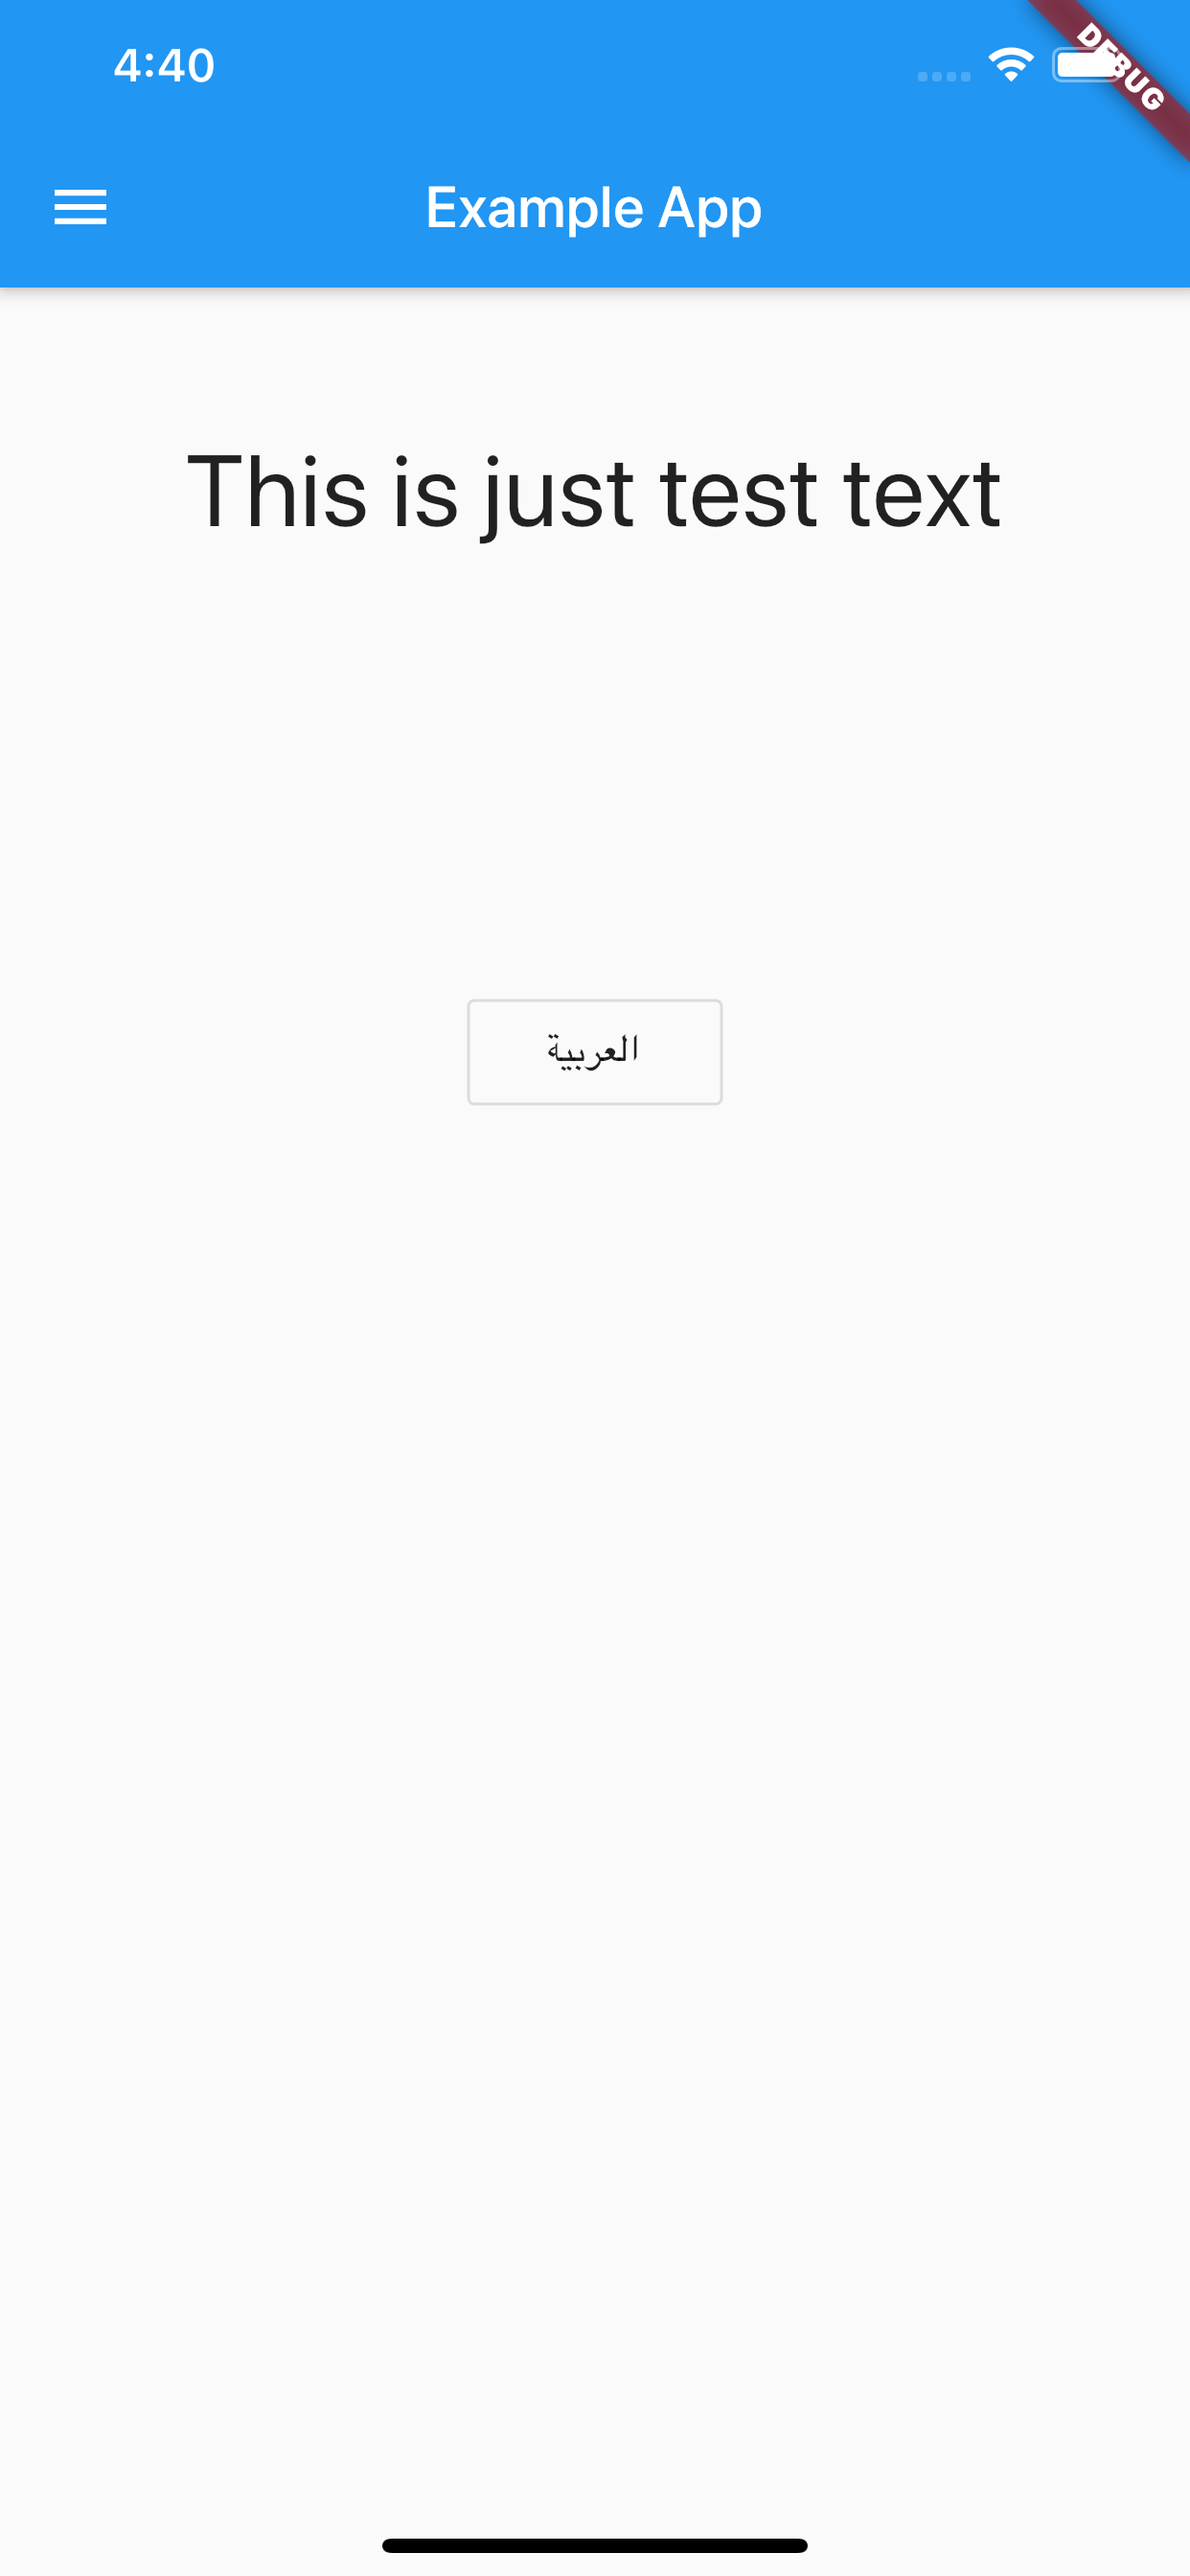
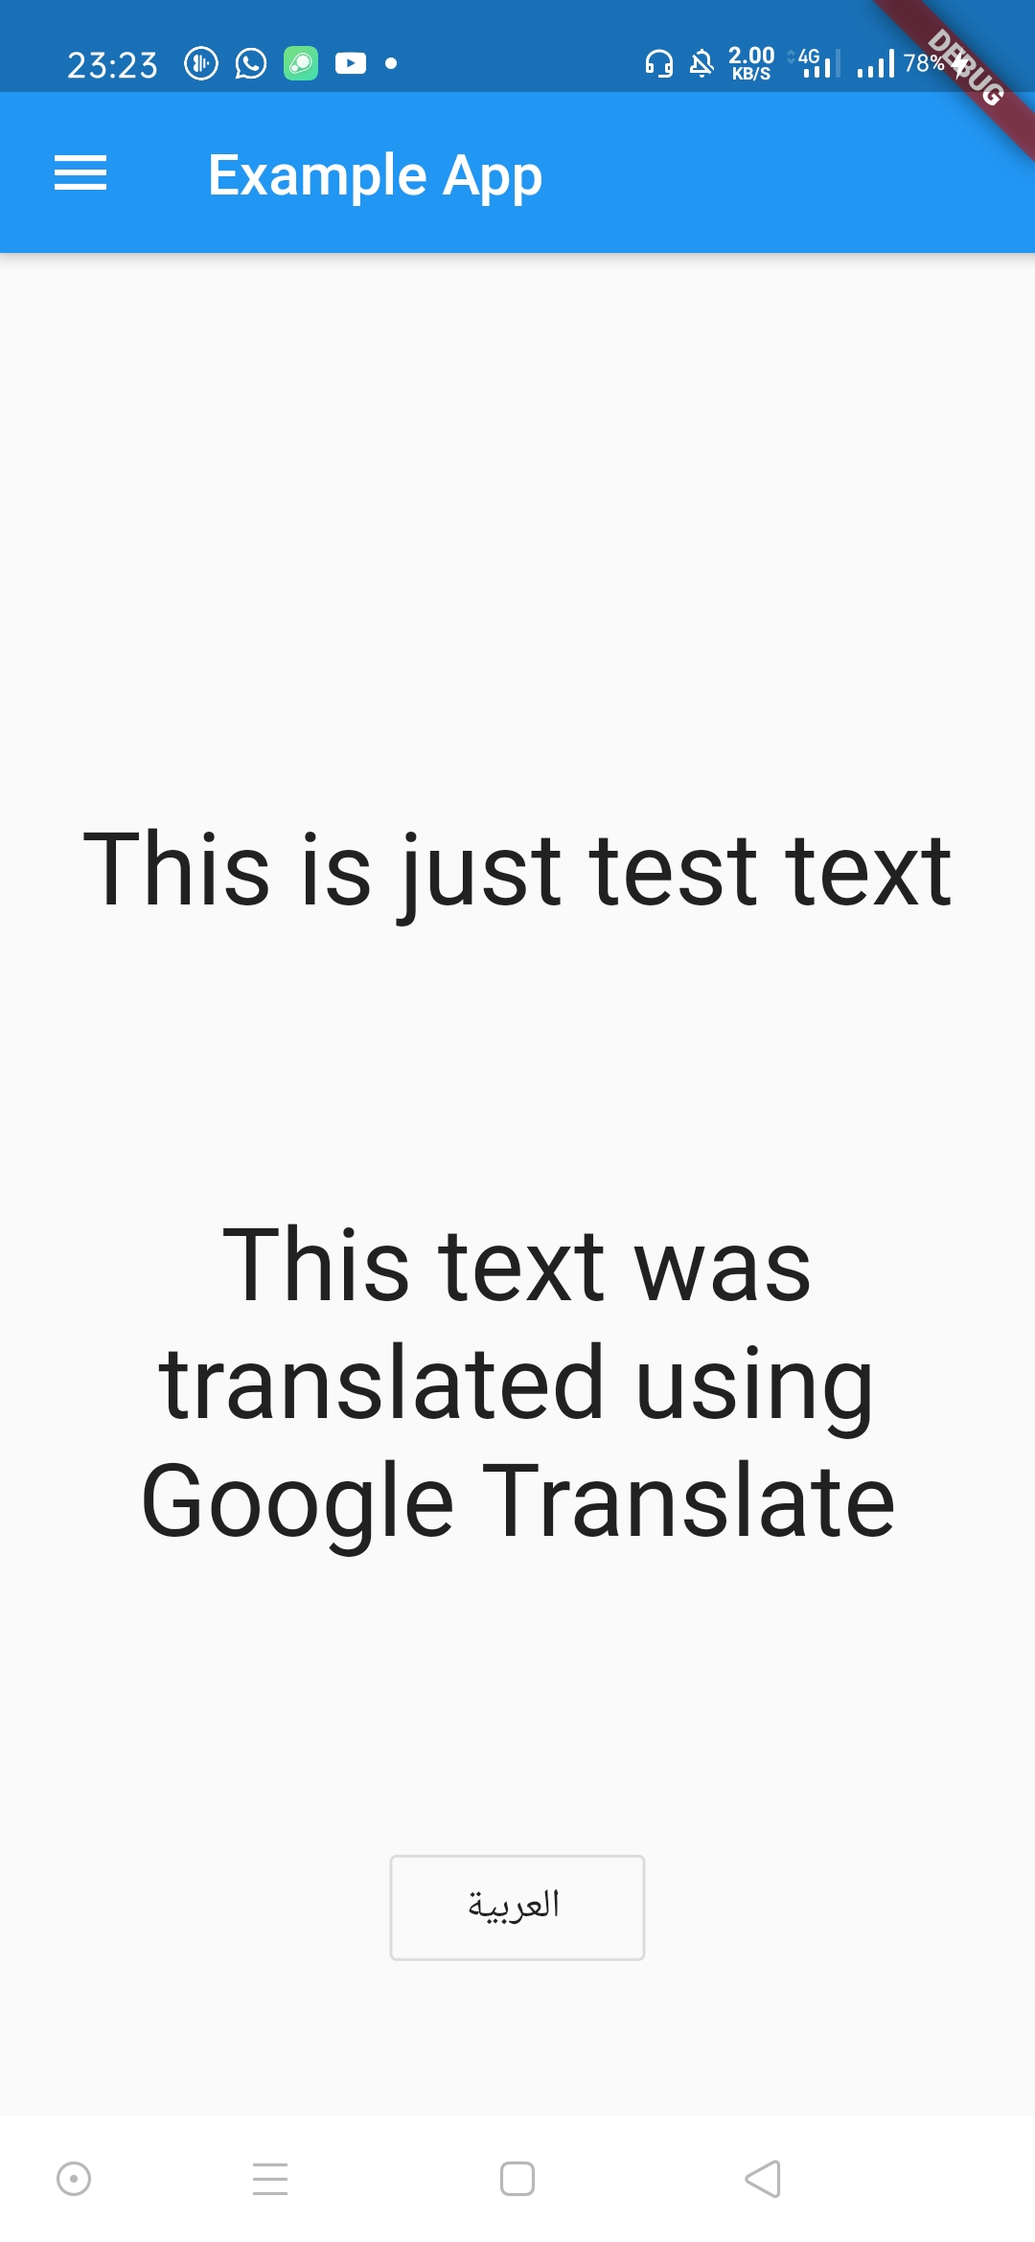
googleTranslate

diff --git a/example/lib/main.dart b/example/lib/main.dart
@@ -39,6 +39,29 @@ class Home extends StatefulWidget {
 }
 
 class _HomeState extends State<Home> {
+  String testText =
+      translator.currentLanguage == 'ar' ? 'جار الترجمة' : 'Translating..';
+
+  @override
+  void initState() {
+    super.initState();
+    Future.delayed(Duration.zero, () async {
+      translator.currentLanguage == 'ar'
+          ? testText = await translator.googleTranslate(
+              'This text translated using google translate',
+              from: 'en',
+              to: 'ar',
+            )
+          : testText = await translator.googleTranslate(
+              'هذا النص ترجم باستخدام ترجمة جوجل',
+              from: 'ar',
+              to: 'en',
+            );
+
+      setState(() {});
+    });
+  }
+
   @override
   Widget build(BuildContext context) {
     return Scaffold(
@@ -51,13 +74,19 @@ class _HomeState extends State<Home> {
         width: double.infinity,
         child: Column(
           crossAxisAlignment: CrossAxisAlignment.center,
+          mainAxisAlignment: MainAxisAlignment.spaceAround,
           children: <Widget>[
             SizedBox(height: 50),
             Text(
               translator.translate('textArea'),
+              textAlign: TextAlign.center,
               style: TextStyle(fontSize: 35),
             ),
-            SizedBox(height: 150),
+            Text(
+              testText,
+              textAlign: TextAlign.center,
+              style: TextStyle(fontSize: 35),
+            ),
             OutlineButton(
               onPressed: () {
                 translator.setNewLanguage(

diff --git a/lib/localize_and_translate.dart b/lib/localize_and_translate.dart
@@ -5,6 +5,7 @@ import 'package:flutter/material.dart';
 import 'package:flutter/services.dart';
 import 'package:flutter_localizations/flutter_localizations.dart';
 import 'package:shared_preferences/shared_preferences.dart';
+import 'package:translator/translator.dart';
 
 List<String> LIST_OF_LANGS = [];
 String LANGS_DIR;
@@ -38,6 +39,23 @@ class LocalizeAndTranslate {
     return (_values == null || _values[key] == null)
         ? '404 : $key'
         : _values[key];
+  }
+
+  ///------------------------------------------------
+  /// Transle : [key]
+  ///------------------------------------------------
+  Future<String> googleTranslate(
+    String key, {
+    @required String from,
+    @required String to,
+  }) async {
+    try {
+      final trans = new GoogleTranslator();
+      String text = await trans.translate(key, from: from, to: to);
+      return text;
+    } catch (e) {
+      return 'Error';
+    }
   }
 
   get currentLanguage =>

diff --git a/README.md b/README.md
@@ -13,6 +13,7 @@ Flutter Localization In Human Way
 | `locale` |active Locale |
 | `init()` |initialize things, before runApp() |
 | `translate('word')` |word translation |
+| `googleTranslate('word', from: 'en', to: 'ar')` |google translate |
 | `setNewLanguage(context,'en',restart: true, remember: true,)` |change language |
 | `locals()` |locales list |
 | `isDirectionRTL()` |is Direction RTL check |
@@ -109,6 +110,7 @@ class _MyAppState extends State<MyApp> {
 
 12. Enjoy
 * we use `translate("appTitle")` 
+* we use `googleTranslate("test", from: 'en', to: 'ar')` 
 * `setNewLanguage("en")` : and it's parameters
 
 ``` dart
@@ -118,6 +120,29 @@ class Home extends StatefulWidget {
 }
 
 class _HomeState extends State<Home> {
+  String testText =
+      translator.currentLanguage == 'ar' ? 'جار الترجمة' : 'Translating..';
+
+  @override
+  void initState() {
+    super.initState();
+    Future.delayed(Duration.zero, () async {
+      translator.currentLanguage == 'ar'
+          ? testText = await translator.googleTranslate(
+              'This text translated using google translate',
+              from: 'en',
+              to: 'ar',
+            )
+          : testText = await translator.googleTranslate(
+              'هذا النص ترجم باستخدام ترجمة جوجل',
+              from: 'ar',
+              to: 'en',
+            );
+
+      setState(() {});
+    });
+  }
+
   @override
   Widget build(BuildContext context) {
     return Scaffold(
@@ -130,34 +155,29 @@ class _HomeState extends State<Home> {
         width: double.infinity,
         child: Column(
           crossAxisAlignment: CrossAxisAlignment.center,
+          mainAxisAlignment: MainAxisAlignment.spaceAround,
           children: <Widget>[
             SizedBox(height: 50),
             Text(
-              translator.translate('textArea'), // Translation
+              translator.translate('textArea'),
+              textAlign: TextAlign.center,
               style: TextStyle(fontSize: 35),
             ),
-            SizedBox(height: 150),
-            OutlineButton(
-              onPressed: () { // setNewLanguage 'ar'
-                translator.setNewLanguage(
-                  context,
-                  newLanguage: 'ar',
-                  remember: true,
-                  restart: true,
-                );
-              },
-              child: Text('العربية'),
+            Text(
+              testText,
+              textAlign: TextAlign.center,
+              style: TextStyle(fontSize: 35),
             ),
             OutlineButton(
-              onPressed: () { // setNewLanguage 'en'
+              onPressed: () {
                 translator.setNewLanguage(
                   context,
-                  newLanguage: 'en',
+                  newLanguage: translator.currentLanguage == 'ar' ? 'en' : 'ar',
                   remember: true,
                   restart: true,
                 );
               },
-              child: Text('English'),
+              child: Text(translator.translate('buttonTitle')),
             ),
           ],
         ),
@@ -165,6 +185,7 @@ class _HomeState extends State<Home> {
     );
   }
 }
+
 ```
 
 ## Complete Example

diff --git a/example/README.md b/example/README.md
@@ -42,6 +42,29 @@ class Home extends StatefulWidget {
 }
 
 class _HomeState extends State<Home> {
+  String testText =
+      translator.currentLanguage == 'ar' ? 'جار الترجمة' : 'Translating..';
+
+  @override
+  void initState() {
+    super.initState();
+    Future.delayed(Duration.zero, () async {
+      translator.currentLanguage == 'ar'
+          ? testText = await translator.googleTranslate(
+              'This text translated using google translate',
+              from: 'en',
+              to: 'ar',
+            )
+          : testText = await translator.googleTranslate(
+              'هذا النص ترجم باستخدام ترجمة جوجل',
+              from: 'ar',
+              to: 'en',
+            );
+
+      setState(() {});
+    });
+  }
+
   @override
   Widget build(BuildContext context) {
     return Scaffold(
@@ -54,13 +77,19 @@ class _HomeState extends State<Home> {
         width: double.infinity,
         child: Column(
           crossAxisAlignment: CrossAxisAlignment.center,
+          mainAxisAlignment: MainAxisAlignment.spaceAround,
           children: <Widget>[
             SizedBox(height: 50),
             Text(
               translator.translate('textArea'),
+              textAlign: TextAlign.center,
               style: TextStyle(fontSize: 35),
             ),
-            SizedBox(height: 150),
+            Text(
+              testText,
+              textAlign: TextAlign.center,
+              style: TextStyle(fontSize: 35),
+            ),
             OutlineButton(
               onPressed: () {
                 translator.setNewLanguage(

diff --git a/CHANGELOG.md b/CHANGELOG.md
@@ -2,6 +2,10 @@
 
 * Improvements
 
+## 2.0.0
+
+* googleTranslate() added
+
 ## 1.2.0 | 1.2.1
 
 * Performance Improvements
